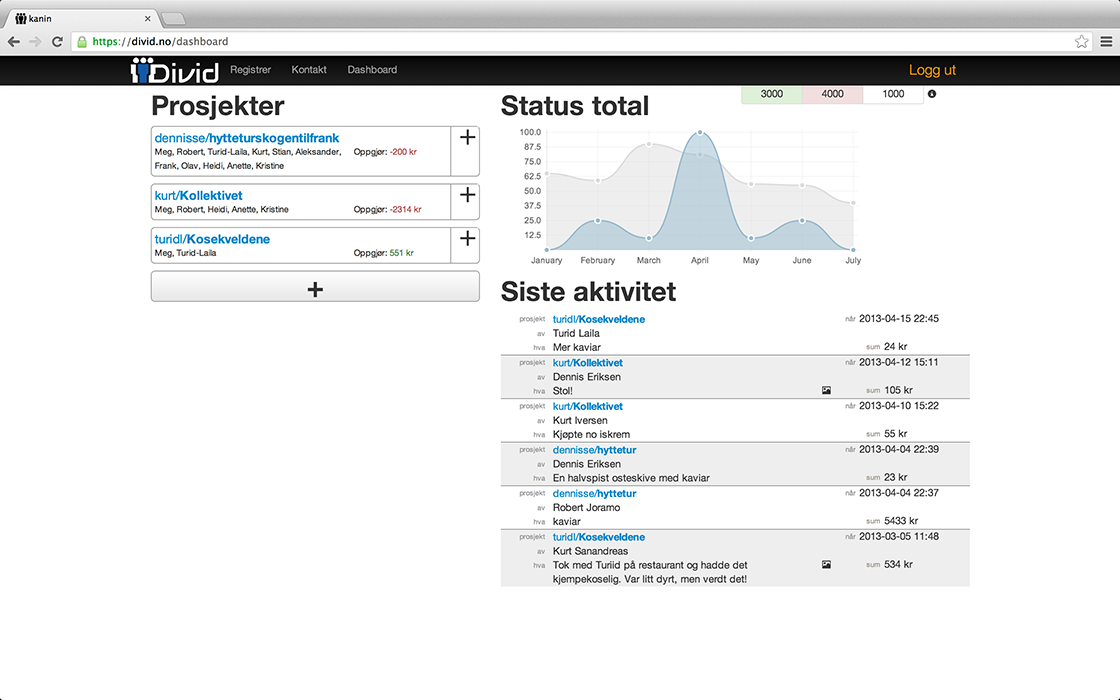
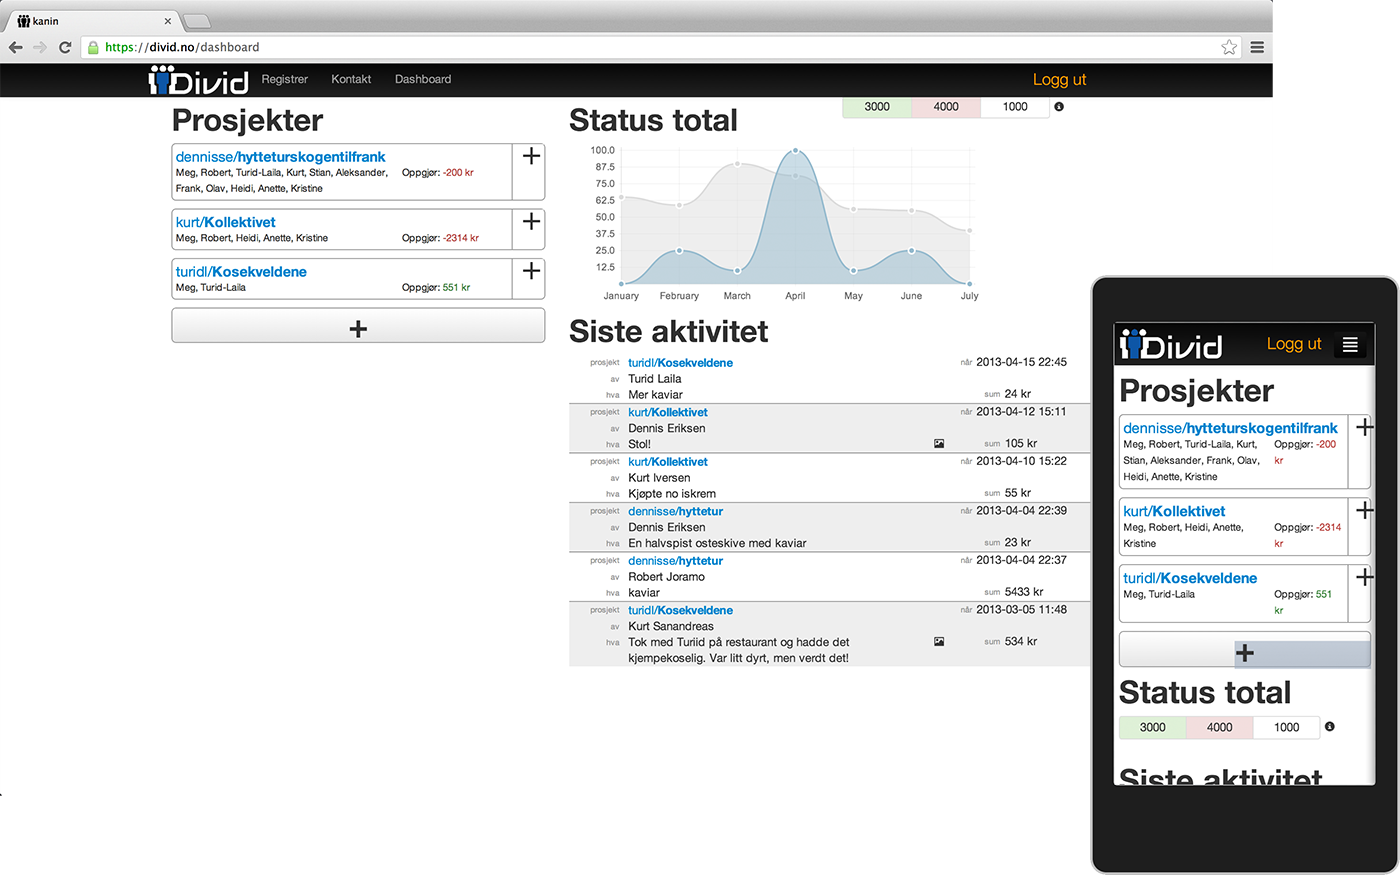
Fixed bugs and showcase

Changed region(s): [[0.0, 0.0, 1.0, 1.0]]

diff --git a/public/css/use.less b/public/css/use.less
@@ -15,7 +15,7 @@
 }
 
 .content {
-	margin-left:0px;
+/*	margin-left:0px;*/
 }
 
 .pitch {
@@ -93,8 +93,7 @@ margin:10px;
 		height:460px;
 		margin-top: 40px;
 		margin-bottom:20px;
-		margin-left:0px;
-		/*background-color: @grayLighter;*/
+		background-color: @grayLighter;
 		/*background-image: url('/img/people.png');
 		background-repeat:no-repeat;
 		background-attachment:fixed;
@@ -115,10 +114,14 @@ margin:10px;
 	float:right;
 	margin: 0px;
 }
-.infoimg{
 
+.divideLine {
+background-color:#66A3D2;
+height:5px;
+width:35%;
+margin-top:40px;
+margin-bottom:40px;
 }
-
 /*
 .last {
 	background-color:@grayLighter;
@@ -179,7 +182,6 @@ margin:10px;
 	line-height: 26px;
 	display: block;
 	}
-
 
 /*#footer {
 	background-color: #0D56A6; 
